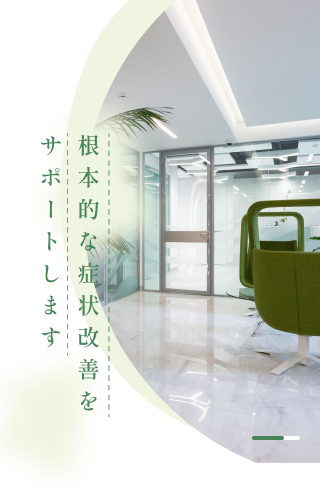
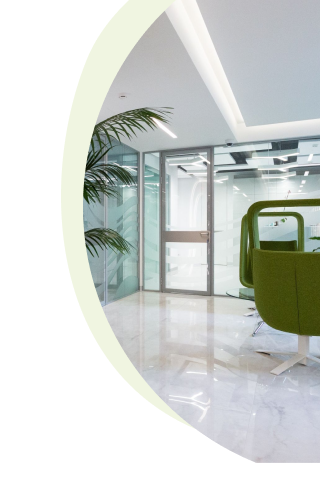
html, css 修正

diff --git a/index.html b/index.html
@@ -35,7 +35,7 @@
       <div class="header__outer flex ai-center jc-spcbetween">
         <h1><a href="index.html" class="logo"><img src="images/Frame 2259.png" alt="SAMURAI整体院"></a></h1>
         <!-- nav-pc -->
-        <nav class="header__nav-pc pc">
+        <nav class="header__nav-pc">
           <ul class="header__nav-menu flex jc-spcbetween">
             <li class="header__nav-list white"><a href="#" class="nav__link">ホーム</a></li>
             <li class="header__nav-list white"><a href="#concept" class="nav__link">当院について</a></li>
@@ -47,27 +47,31 @@
         </nav>
 
         <!-- nav-sp-button -->
-        <img src="./images/SP_MenuDefault.png" alt="ナビゲーションを開く" class="js-humburger">
-        <div class="openbtn1"><span></span><span></span><span></span></div>
-        <p class="lead">5-2-1<br>3本線が×に</p>
-
-        <!-- nav-sp -->
-        <nav class="header_nav-sp sp">
-          <ul class="header__nav-menu">
-            <li class="header__nav-list white"><a href="#" class="nav__link">ホーム</a></li>
-            <li class="header__nav-list white"><a href="#concept" class="nav__link">当院について</a></li>
-            <li class="header__nav-list white"><a href="#course" class="nav__link">コース・料金</a></li>
-            <li class="header__nav-list white"><a href="#news" class="nav__link">お知らせ</a></li>
-            <li class="header__nav-list white"><a href="#voice" class="nav__link">お客様の声</a></li>
-            <li class="header__nav-list white header__nav-btn background-darkgreen"><a href="#access" class="nav__link">ご予約・お問い合わせ</a></li>
-          </ul>
-        </nav>
+        <div class="openbtn1 sp">
+          <span></span>
+          <span></span>
+          <span></span>
+        </div>
 
       </div>
+
+
+      <!-- nav-sp
+      <nav class="header_nav-sp sp">
+        <ul class="header__nav-menu">
+          <li class="header__nav-list white"><a href="#" class="nav__link">ホーム</a></li>
+          <li class="header__nav-list white"><a href="#concept" class="nav__link">当院について</a></li>
+          <li class="header__nav-list white"><a href="#course" class="nav__link">コース・料金</a></li>
+          <li class="header__nav-list white"><a href="#news" class="nav__link">お知らせ</a></li>
+          <li class="header__nav-list white"><a href="#voice" class="nav__link">お客様の声</a></li>
+          <li class="header__nav-list white header__nav-btn background-darkgreen"><a href="#access" class="nav__link">ご予約・お問い合わせ</a></li>
+        </ul>
+      </nav> -->
+
     </div>
   </header>
 
-  <div class="main-visual">
+  <!-- <div class="main-visual">
     <div class="main-visual__container flex jc-flexend">
       <div class="main-visual__box vertical-title-font vertical-writing-mode green">
         <span class="main-visual__text border-right">根本的な症状改善を</span><br>
@@ -75,7 +79,7 @@
       </div>
       <img class="main-visual__img" src="images/mainvisual-img.png" alt="整体院店内">
     </div>
-  </div>
+  </div> -->
 
   <!-- carousel -->
   <section id="carousel">

diff --git a/css/style.css b/css/style.css
@@ -260,9 +260,13 @@
 .carousel__box {
   background-image: url(../images/mainvisual-text-bg.png);
   position: absolute;
-  top: 150px;
-  left: 90px;
+  top: 120px;
+  left: 80px;
   z-index: 5;
+  padding: 50px;
+  background-size: contain;
+  background-repeat: no-repeat;
+  height: 100%;
 }
 
 .carousel__text {
@@ -610,17 +614,36 @@ jQueryの指定(PC)
   セクション
   ---------------------- */
 
+  /* header */
+  .header {
+    position: relative;
+    width: 100%;
+    background-color: #fff;
+  }
+
+  .header__outer {
+    flex-direction: column;
+  }
+
+  .header__nav-menu {
+    flex-direction: column;
+  }
+
+  .header__nav-list {
+    color: #000;
+  }
+
+
   /*==================================================
 　5-2-1 3本線が×に
 ===================================*/
-/*ボタン外側※レイアウトによってpositionや形状は適宜変更してください*/
+/* ボタン外側 */
 .openbtn1{
   position: relative;/*ボタン内側の基点となるためrelativeを指定*/
-  background:#57a2c7;
+  background:#fff;
   cursor: pointer;
-    width: 50px;
-    height:50px;
-  border-radius: 5px;
+  width: 50px;
+  height: 50px;
 }
 
 /*ボタン内側*/
@@ -628,30 +651,30 @@ jQueryの指定(PC)
   display: inline-block;
   transition: all .4s;/*アニメーションの設定*/
   position: absolute;
-  left: 14px;
+  right: 0px;
   height: 3px;
   border-radius: 2px;
-background: #fff;
+  background: #468459;
   width: 45%;
 }
 
 .openbtn1 span:nth-of-type(1) {
-top:15px; 
+  top:15px; 
 }
 
 .openbtn1 span:nth-of-type(2) {
-top:23px;
+  top:23px;
 }
 
 .openbtn1 span:nth-of-type(3) {
-top:31px;
+  top:31px;
 }
 
 /*activeクラスが付与されると線が回転して×に*/
 
 .openbtn1.active span:nth-of-type(1) {
   top: 18px;
-  left: 18px;
+  right: 18px;
   transform: translateY(6px) rotate(-45deg);
   width: 30%;
 }
@@ -668,12 +691,9 @@ opacity: 0;/*真ん中の線は透過*/
 }
 
   /* carousel */
-  .carousel__container-pc {
-    display: none;
-  }
-
-  .carousel__img-sp {
-    margin-left: auto;
+  .carousel__box {
+    top: 70px;
+    left: 10px;
   }
   
   /* news */
